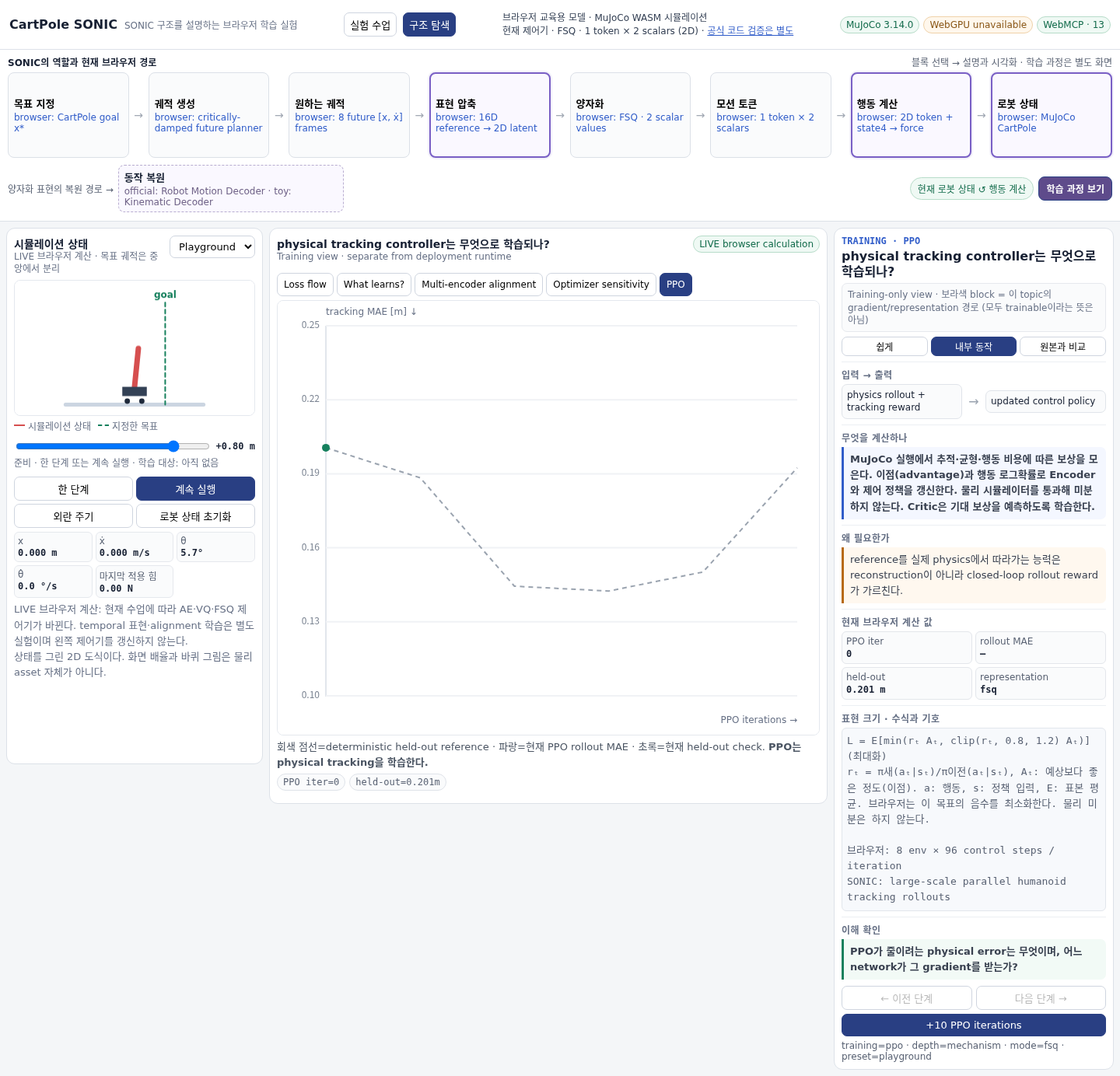
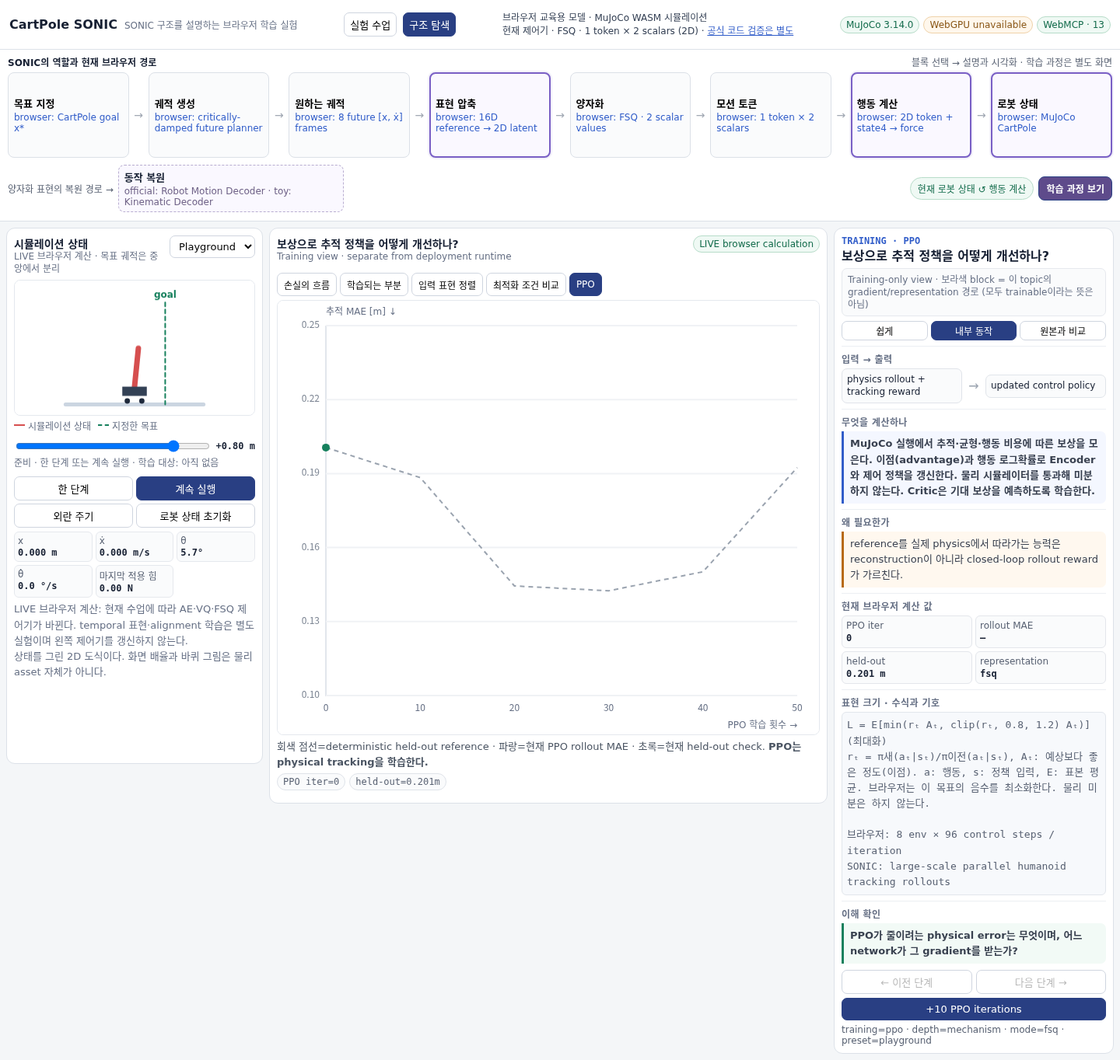
Correct signal-flow wrapping and clarify visual mathematical explanations

diff --git a/course.js b/course.js
@@ -153,7 +153,7 @@ export const SONIC_FLOW = [
 export const TRAINING_TOPICS = [
   {
     id:"loss-flow",
-    label:"Loss flow",
+    label:"손실의 흐름",
     title:"SONIC은 어떤 loss로 전체 구조를 학습하나?",
     viz:"training-flow",
     input:"rollouts + reference targets",
@@ -164,7 +164,7 @@ export const TRAINING_TOPICS = [
   },
   {
     id:"what-learns",
-    label:"What learns?",
+    label:"학습되는 부분",
     title:"FSQ도 학습될까? 어떤 parameter가 실제로 바뀌나?",
     viz:"learning-graph",
     input:"loss gradients",
@@ -175,7 +175,7 @@ export const TRAINING_TOPICS = [
   },
   {
     id:"alignment",
-    label:"Multi-encoder alignment",
+    label:"입력 표현 정렬",
     title:"왜 서로 다른 Encoder가 같은 Universal Token 의미를 만들까?",
     viz:"alignment",
     input:"paired representations of the same motion",
@@ -186,7 +186,7 @@ export const TRAINING_TOPICS = [
   },
   {
     id:"optimizer-sensitivity",
-    label:"Optimizer sensitivity",
+    label:"최적화 조건 비교",
     title:"왜 2-token controller는 같은 PPO 설정에서 더 흔들렸을까?",
     viz:"optimizer-evidence",
     input:"matched bootstrap controllers + controlled PPO ablations",
@@ -198,7 +198,7 @@ export const TRAINING_TOPICS = [
   {
     id:"ppo",
     label:"PPO",
-    title:"physical tracking controller는 무엇으로 학습되나?",
+    title:"보상으로 추적 정책을 어떻게 개선하나?",
     viz:"training",
     input:"physics rollout + tracking reward",
     output:"updated control policy",
@@ -343,109 +343,110 @@ export const TRAINING_DETAILS = {
 };
 
 export const CONCEPT_TEXT = {
-  ae:{
-    formula:"MSE = (1/N) Σⱼ (rⱼ − r̂ⱼ)²\nN: 성분 수, r: 정규화된 목표, r̂: 복원값. 위치·속도를 각각 정규화한 평균이므로 무차원이며 mm가 아니다.",
-    title:"Autoencoder — 압축 후 무엇이 남았는가?",
-    input:"원하는 미래 궤적 (reference)",
-    output:"latent z + reconstructed reference",
-    short:"Encoder는 원하는 미래 궤적(reference)을 작은 연속 표현 z로 압축하고, Decoder는 입력을 복원한다.",
-    why:"작은 latent가 motion 정보를 잃지 않았는지 reconstruction error로 확인한다.",
-    mechanism:"입력 → Encoder → 연속 표현 z → Decoder → 복원값의 순서다. 아래 정규화 MSE로 Encoder와 Decoder를 함께 학습한다.",
-    sonic:"SONIC에서는 이 생각이 motion Encoder + Robot Motion/Kinematic Decoder auxiliary path로 이어진다. physical action은 별도 Control Decoder가 낸다.",
-    ifMissing:"latent가 motion semantic을 보존하는지 직접 검사할 보조 신호가 약해진다.",
-    question:"왜 작은 latent를 다시 복원해 보는 것이 bottleneck의 품질 검사가 되는가?",
-    toyShape:"16D reference → 2D z → 16D reconstruction",
-    sonicShape:"motion Encoder → shared latent/token → Robot Motion Decoder auxiliary reconstruction",
-    key:"AE는 SONIC deployment 구조 그 자체가 아니라 Encoder/auxiliary Decoder를 이해하기 위한 기본 개념이다."
+  "ae": {
+    "formula": "MSE = (1/N) Σⱼ (rⱼ − r̂ⱼ)²\nN: 성분 수, r: 정규화된 목표, r̂: 복원값. 위치·속도를 각각 정규화한 평균이므로 무차원이며 mm가 아니다.",
+    "title": "Autoencoder — 압축 후 무엇이 남았는가?",
+    "input": "원하는 미래 궤적 (reference)",
+    "output": "연속 표현 z와 복원한 궤적",
+    "short": "Encoder는 원하는 미래 궤적(reference)을 작은 연속 표현 z로 압축하고, Decoder는 입력을 복원한다.",
+    "why": "작은 표현으로 줄인 뒤에도 원래 궤적 정보를 얼마나 되찾는지 확인한다.",
+    "mechanism": "입력 → Encoder → 연속 표현 z → Decoder → 복원값의 순서다. 아래 정규화 MSE로 Encoder와 Decoder를 함께 학습한다.",
+    "sonic": "SONIC에서는 이 생각이 motion Encoder + Robot Motion/Kinematic Decoder auxiliary path로 이어진다. physical action은 별도 Control Decoder가 낸다.",
+    "ifMissing": "latent가 motion semantic을 보존하는지 직접 검사할 보조 신호가 약해진다.",
+    "question": "왜 작은 latent를 다시 복원해 보는 것이 bottleneck의 품질 검사가 되는가?",
+    "toyShape": "16D reference → 2D z → 16D reconstruction",
+    "sonicShape": "motion Encoder → shared latent/token → Robot Motion Decoder auxiliary reconstruction",
+    "key": "AE는 SONIC deployment 구조 그 자체가 아니라 Encoder/auxiliary Decoder를 이해하기 위한 기본 개념이다."
   },
-  vae:{
-    title:"VAE — optional background",
-    input:"input/reference features",
-    output:"평균 μ, 표준편차 σ → 확률적으로 뽑은 연속 표현 z",
-    short:"z 하나를 직접 내는 대신 μ,σ를 내고 확률분포에서 latent를 sample한다.",
-    why:"continuous latent를 regularized probabilistic space로 만드는 계열이다.",
-    mechanism:"Encoder가 μ,σ를 출력하고 z=μ+σ·ε로 sample한다. reconstruction loss와 KL divergence를 함께 최적화한다.",
-    sonic:"SONIC runtime은 VAE를 핵심 block으로 사용하지 않는다. VAE는 VQ-VAE라는 이름의 계보를 이해하기 위한 선택 배경지식이다.",
-    ifMissing:"SONIC 이해에는 치명적이지 않다. 이 탭을 건너뛰어도 VQ→VQ-VAE→FSQ 본선을 이해할 수 있다.",
-    question:"VAE의 μ/σ/KL은 왜 FSQ 이해의 필수 선행조건이 아닌가?",
-    toyShape:"concept-only: μ,σ → sampled z (not implemented in toy runtime)",
-    sonicShape:"optional background; not a SONIC runtime block",
-    key:"FSQ의 직접 선행 개념은 VAE보다 VQ/VQ-VAE다. VAE는 선택 배경지식이다."
+  "vae": {
+    "title": "VAE — 확률적 표현을 만드는 선택 배경",
+    "input": "input/reference features",
+    "output": "평균 μ, 표준편차 σ → 확률적으로 뽑은 연속 표현 z",
+    "short": "Encoder가 평균과 표준편차를 내고, 그 분포에서 연속 표현 z를 뽑는다.",
+    "why": "continuous latent를 regularized probabilistic space로 만드는 계열이다.",
+    "mechanism": "Encoder가 μ,σ를 출력하고 z=μ+σ·ε로 sample한다. reconstruction loss와 KL divergence를 함께 최적화한다.",
+    "sonic": "SONIC runtime은 VAE를 핵심 block으로 사용하지 않는다. VAE는 VQ-VAE라는 이름의 계보를 이해하기 위한 선택 배경지식이다.",
+    "ifMissing": "SONIC 이해에는 치명적이지 않다. 이 탭을 건너뛰어도 VQ→VQ-VAE→FSQ 본선을 이해할 수 있다.",
+    "question": "VAE의 μ/σ/KL은 왜 FSQ 이해의 필수 선행조건이 아닌가?",
+    "toyShape": "concept-only: μ,σ → sampled z (not implemented in toy runtime)",
+    "sonicShape": "optional background; not a SONIC runtime block",
+    "key": "FSQ의 직접 선행 개념은 VAE보다 VQ/VQ-VAE다. VAE는 선택 배경지식이다.",
+    "formula": "z = μ + σ ⊙ ε, ε ~ N(0,I)\nμ: 평균, σ: 표준편차, ε: 표준정규 표본, ⊙: 성분별 곱. 복원 오차와 분포 차이(KL)를 함께 다룬다. 이 탭은 설명이며 VAE 학습을 실행하지 않는다."
   },
-  vq:{
-    formula:"k* = argminₖ ‖z − eₖ‖²; q = e[k*]\nz: 연속 표현, eₖ: k번째 학습 코드, q: 선택된 벡터. 가장 가까운 코드의 제곱거리를 최소화한다.",
-    title:"VQ — 가장 가까운 학습 벡터 선택",
-    input:"압축된 연속 표현 z (latent)",
-    output:"nearest learned code vector q",
-    short:"압축된 연속 표현 z를 학습되는 코드 목록에서 가장 가까운 벡터 q로 바꾼다.",
-    why:"continuous representation을 discrete code로 바꾼다.",
-    mechanism:"아래 수식처럼 z와 각 코드 벡터의 제곱거리를 비교한다. 가장 가까운 코드를 고르는 연산은 불연속이므로 Encoder 기울기와 코드 갱신을 따로 처리한다.",
-    sonic:"SONIC은 learned VQ codebook 대신 FSQ를 사용한다. VQ는 FSQ가 무엇을 단순화했는지 이해하기 위한 직접 비교 기준이다.",
-    ifMissing:"FSQ의 장점인 'learned codebook 제거'가 왜 중요한지 이해하기 어렵다.",
-    question:"VQ에서 z가 codebook의 어느 vector로 가는지는 어떻게 결정되고, 그 vector 자체는 학습되는가?",
-    toyShape:"z∈R² → nearest of 8 learned 2D code vectors",
-    sonicShape:"comparison baseline; SONIC runtime uses FSQ instead of a learned VQ codebook",
-    key:"브라우저는 선택된 코드 벡터를 해당 z의 평균 쪽으로 이동시킨다. FSQ의 고정 수준과 다르다."
+  "vq": {
+    "formula": "k* = argminₖ ‖z − eₖ‖²; q = e[k*]\nz: 연속 표현, eₖ: k번째 학습 코드, q: 선택된 벡터. 가장 가까운 코드의 제곱거리를 최소화한다.",
+    "title": "VQ — 가장 가까운 학습 벡터 선택",
+    "input": "압축된 연속 표현 z (latent)",
+    "output": "가장 가까운 학습 벡터 q",
+    "short": "압축된 연속 표현 z를 학습되는 코드 목록에서 가장 가까운 벡터 q로 바꾼다.",
+    "why": "연속 표현을 유한한 대표 벡터 중 하나로 바꾼다.",
+    "mechanism": "아래 수식처럼 z와 각 코드 벡터의 제곱거리를 비교한다. 가장 가까운 코드를 고르는 연산은 불연속이므로 Encoder 기울기와 코드 갱신을 따로 처리한다.",
+    "sonic": "SONIC은 learned VQ codebook 대신 FSQ를 사용한다. VQ는 FSQ가 무엇을 단순화했는지 이해하기 위한 직접 비교 기준이다.",
+    "ifMissing": "FSQ의 장점인 'learned codebook 제거'가 왜 중요한지 이해하기 어렵다.",
+    "question": "VQ에서 z가 codebook의 어느 vector로 가는지는 어떻게 결정되고, 그 vector 자체는 학습되는가?",
+    "toyShape": "z∈R² → nearest of 8 learned 2D code vectors",
+    "sonicShape": "comparison baseline; SONIC runtime uses FSQ instead of a learned VQ codebook",
+    "key": "브라우저는 선택된 코드 벡터를 해당 z의 평균 쪽으로 이동시킨다. FSQ의 고정 수준과 다르다."
   },
-  vqvae:{
-    formula:"k* = argminₖ ‖z − eₖ‖²; q = e[k*]\nz: 연속 표현, eₖ: 학습 코드. 원 논문: 복원 + 코드북 + commitment 손실. 브라우저: STE + z 근접 항 + 코드 평균 갱신. FSQ에는 학습 코드북이 없다.",
-    title:"VQ-VAE — 양자화와 복원을 함께 학습",
-    input:"reference → continuous z",
-    output:"discrete q + reconstruction",
-    short:"Encoder → nearest code q → Decoder reconstruction을 함께 학습한다.",
-    why:"nearest lookup은 미분 불가능하고 z와 learned codebook을 함께 맞춰야 하므로 STE·commitment·codebook update가 각각 필요하다.",
-    mechanism:"순방향은 z → 가장 가까운 코드 q → 복원이다. 역방향은 STE(불연속 선택을 대신하는 기울기)로 Encoder를 갱신한다. 브라우저 VQ는 z를 q에 가까이 두는 항과 선택된 코드의 이동 평균 갱신을 사용한다. 원 논문의 코드북·commitment 손실을 그대로 실행하는 것은 아니다.",
-    sonic:"SONIC FSQ는 이 구조에서 learned vector codebook/commitment/dead-code 관리 부담을 줄인 대안으로 이해하면 된다.",
-    ifMissing:"FSQ가 단순히 'VQ보다 다른 rounding' 정도로만 보여 왜 연구적으로 의미가 있는지 놓치게 된다.",
-    question:"VQ-VAE에서 STE, commitment, codebook update는 각각 어떤 학습 문제를 해결하는가?",
-    toyShape:"16D → z2 → nearest learned q2 → recon16",
-    sonicShape:"VQ-VAE predecessor concept → SONIC FSQ removes learned codebook machinery",
-    key:"forward에서는 q를 쓰고 backward에서는 STE로 Encoder까지 gradient를 보낸다. 이것이 '그냥 diagram'이 아니라 학습 메커니즘의 핵심이다."
+  "vqvae": {
+    "formula": "k* = argminₖ ‖z − eₖ‖²; q = e[k*]\nz: 연속 표현, eₖ: 학습 코드. 원 논문: 복원 + 코드북 + commitment 손실. 브라우저: STE + z 근접 항 + 코드 평균 갱신. FSQ에는 학습 코드북이 없다.",
+    "title": "VQ-VAE — 양자화와 복원을 함께 학습",
+    "input": "원하는 궤적 → 연속 표현 z",
+    "output": "선택한 코드 q → 복원한 궤적",
+    "short": "입력을 압축하고, 가까운 코드를 선택하고, 그 코드로 입력을 복원한다.",
+    "why": "코드 선택이 불연속이어도 앞단을 학습하고, 연속 표현과 대표 벡터가 서로 멀어지지 않도록 해야 한다.",
+    "mechanism": "순방향은 z → 가장 가까운 코드 q → 복원이다. 역방향은 STE(불연속 선택을 대신하는 기울기)로 Encoder를 갱신한다. 브라우저 VQ는 z를 q에 가까이 두는 항과 선택된 코드의 이동 평균 갱신을 사용한다. 원 논문의 코드북·commitment 손실을 그대로 실행하는 것은 아니다.",
+    "sonic": "SONIC FSQ는 이 구조에서 learned vector codebook/commitment/dead-code 관리 부담을 줄인 대안으로 이해하면 된다.",
+    "ifMissing": "FSQ가 단순히 'VQ보다 다른 rounding' 정도로만 보여 왜 연구적으로 의미가 있는지 놓치게 된다.",
+    "question": "대체 기울기, z와 코드의 거리, 대표 벡터 갱신은 각각 무엇을 해결하는가?",
+    "toyShape": "16D → z2 → nearest learned q2 → recon16",
+    "sonicShape": "VQ-VAE predecessor concept → SONIC FSQ removes learned codebook machinery",
+    "key": "forward에서는 q를 쓰고 backward에서는 STE로 Encoder까지 gradient를 보낸다. 이것이 '그냥 diagram'이 아니라 학습 메커니즘의 핵심이다."
   },
-  fsq:{
-    formula:"브라우저 근사: qᵢ = round(1.998 × tanh(zᵢ))/2\nzᵢ: 연속 표현의 i번째 성분, qᵢ: 양자화 값. 수준은 {−1, −0.5, 0, 0.5, 1}. 이 화면은 정규화된 q를 표시한다. 공식 32수준 설정과 다르며, FSQ만으로 의미 정렬이 생기지는 않는다.",
-    title:"FSQ — 각 성분을 고정된 단계로 양자화",
-    input:"continuous latent scalars z",
-    output:"fixed-level quantized scalars q",
-    short:"압축된 연속 표현(latent)의 각 성분을 제한하고 반올림해 양자화된 표현(token)을 만든다.",
-    why:"learned vector codebook 관리 없이 discrete bottleneck을 만든다.",
-    mechanism:"toy는 q_i = round(1.998·tanh(z_i))/2를 사용한다. round는 forward에서 discrete value를 만들고 backward에서는 STE로 gradient를 Encoder에 전달한다.",
-    sonic:"release 계열 config는 2 temporal tokens × 32 scalar dims, scalar당 32 fixed levels를 사용해 flattened 64-D token interface를 만든다.",
-    ifMissing:"continuous latent를 그대로 쓰게 되어 finite shared bottleneck의 규격성과 discrete token interface를 잃는다.",
-    question:"FSQ level은 고정인데 Encoder representation은 어떻게 계속 좋아질 수 있는가?",
-    toyShape:"z∈R² → q on 5×5 implicit fixed grid",
-    sonicShape:"2 tokens × 32 scalar dims, 32 fixed levels/scalar → 64 flattened values",
-    key:"FSQ levels는 보통 학습되지 않는다. Encoder가 fixed bins를 유용하게 사용하는 법을 배운다."
+  "fsq": {
+    "formula": "브라우저 근사: qᵢ = round(1.998 × tanh(zᵢ))/2\nzᵢ: 연속 표현의 i번째 성분, qᵢ: 양자화 값. 수준은 {−1, −0.5, 0, 0.5, 1}. 이 화면은 정규화된 q를 표시한다. 공식 32수준 설정과 다르며, FSQ만으로 의미 정렬이 생기지는 않는다.",
+    "title": "FSQ — 각 성분을 고정된 단계로 양자화",
+    "input": "연속 표현 z의 각 숫자",
+    "output": "고정 단계로 반올림한 q",
+    "short": "압축된 연속 표현(latent)의 각 성분을 제한하고 반올림해 양자화된 표현(token)을 만든다.",
+    "why": "학습되는 대표 벡터 목록 없이, 각 숫자가 사용할 단계를 미리 정한다.",
+    "mechanism": "각 z 성분을 tanh로 제한한 뒤 아래 식으로 반올림한다. 순방향은 정해진 단계의 값을 내고, 역방향은 대체 기울기(STE)를 앞단 Encoder로 전달한다. 반올림 자체를 매끈한 함수라고 가정하는 것은 아니다.",
+    "sonic": "release 계열 config는 2 temporal tokens × 32 scalar dims, scalar당 32 fixed levels를 사용해 flattened 64-D token interface를 만든다.",
+    "ifMissing": "continuous latent를 그대로 쓰게 되어 finite shared bottleneck의 규격성과 discrete token interface를 잃는다.",
+    "question": "단계 값은 고정인데 Encoder는 무엇을 바꾸며 학습하는가?",
+    "toyShape": "z∈R² → q on 5×5 implicit fixed grid",
+    "sonicShape": "2 tokens × 32 scalar dims, 32 fixed levels/scalar → 64 flattened values",
+    "key": "격자의 단계 값은 고정된다. Encoder와 Decoder가 그 단계를 유용하게 쓰는 방법을 학습한다."
+  },
+  "temporal": {
+    "title": "1 token vs 2 token slots — 왜 future window를 여러 token으로 표현할까?",
+    "input": "same whole future window",
+    "output": "1-slot vs 2-slot FSQ representations + reconstructions",
+    "short": "전체 future window를 한꺼번에 읽되, 출력 representation을 token slot 하나가 아니라 여러 slot으로 나누어 더 많은 discrete capacity를 쓴다.",
+    "why": "하나의 작은 token이 표현할 수 있는 finite combinations는 제한적이다. 여러 token slot을 쓰면 whole-window 정보를 더 풍부하게 보존할 수 있다.",
+    "mechanism": "toy는 같은 16D future window를 두 모델에 넣는다. 1-token model은 2 scalar FSQ, 2-token model은 2×2 scalar FSQ를 출력한다. 둘 다 whole window를 공동으로 읽으며 reconstruction loss로 학습된다. token 1=근미래, token 2=원미래 같은 역할은 미리 지정하지 않는다.",
+    "sonic": "공식 SONIC MLP Encoder는 temporal input을 flatten해 읽고, 출력은 max_num_tokens=2 temporal slots로 reshape한다. release config는 token_dim=32이므로 2×32=64 flattened values다. slot 의미는 architecture/config이 정하는 shape이지 near/far semantic을 하드코딩한 것이 아니다.",
+    "ifMissing": "token slot 수와 token dimension을 같은 것으로 오해하거나, token 1/2에 임의의 시간 의미를 붙이게 된다.",
+    "question": "왜 token을 두 개 쓰는가? 그리고 token 1과 token 2가 각각 near/far를 담당한다고 말해도 되는가?",
+    "toyShape": "same 16D window → 1×2 FSQ vs 2×2 FSQ",
+    "sonicShape": "whole future window → 2 token slots × 32 scalar dims → 64 flattened values",
+    "key": "여러 표현 칸은 용량을 늘린다. 각 칸이 근미래·원미래를 뜻하도록 미리 지정되지는 않는다."
+  },
+  "temporal-control": {
+    "title": "1 token vs 2 token control — 표현력 증가가 실제 제어도 좋아지게 할까?",
+    "input": "same future reference + same actual proprioception",
+    "output": "1-token vs 2-token Dynamic Decoder actions → 브라우저 MuJoCo WASM",
+    "short": "두 controller를 같은 teacher/bootstrap과 같은 PPO budget으로 학습해 실제 tracking과 disturbance recovery를 비교한다.",
+    "why": "reconstruction이 좋아졌다는 사실만으로 physical control이 좋아졌다고 결론낼 수 없기 때문이다.",
+    "mechanism": "1-token controller는 16D reference→2D→FSQ q2, 2-token controller는 16D→4D→reshape 2×2→FSQ q4를 사용한다. 각 q는 같은 4D proprioception과 결합되어 별도 Dynamic Decoder가 force를 낸다. 두 controller는 동일 300-step teacher imitation과 동일 PPO hyperparameter/budget을 받는다.",
+    "sonic": "실제 SONIC Robot Control Decoder는 flattened multi-token representation과 proprioception을 받아 action을 낸다. 이 toy는 token-slot 수가 representation capacity뿐 아니라 policy optimization 난이도에도 영향을 줄 수 있음을 분리해 보여준다.",
+    "ifMissing": "'2-token reconstruction이 더 좋다 → 2-token controller도 반드시 더 좋다'는 잘못된 결론을 내리게 된다.",
+    "question": "2-token reconstruction 이득이 같은 PPO 조건에서 closed-loop tracking 이득으로 그대로 이어지는가?",
+    "toyShape": "1-token: q2+state4→force1 ; 2-token: q4+state4→force1",
+    "sonicShape": "flattened multi-token vector + robot proprioception → whole-body action",
+    "key": "matched-budget ablation, not a claim that one or two tokens is globally optimal."
   }
-,
-  temporal:{
-    title:"1 token vs 2 token slots — 왜 future window를 여러 token으로 표현할까?",
-    input:"same whole future window",
-    output:"1-slot vs 2-slot FSQ representations + reconstructions",
-    short:"전체 future window를 한꺼번에 읽되, 출력 representation을 token slot 하나가 아니라 여러 slot으로 나누어 더 많은 discrete capacity를 쓴다.",
-    why:"하나의 작은 token이 표현할 수 있는 finite combinations는 제한적이다. 여러 token slot을 쓰면 whole-window 정보를 더 풍부하게 보존할 수 있다.",
-    mechanism:"toy는 같은 16D future window를 두 모델에 넣는다. 1-token model은 2 scalar FSQ, 2-token model은 2×2 scalar FSQ를 출력한다. 둘 다 whole window를 공동으로 읽으며 reconstruction loss로 학습된다. token 1=근미래, token 2=원미래 같은 역할은 미리 지정하지 않는다.",
-    sonic:"공식 SONIC MLP Encoder는 temporal input을 flatten해 읽고, 출력은 max_num_tokens=2 temporal slots로 reshape한다. release config는 token_dim=32이므로 2×32=64 flattened values다. slot 의미는 architecture/config이 정하는 shape이지 near/far semantic을 하드코딩한 것이 아니다.",
-    ifMissing:"token slot 수와 token dimension을 같은 것으로 오해하거나, token 1/2에 임의의 시간 의미를 붙이게 된다.",
-    question:"왜 token을 두 개 쓰는가? 그리고 token 1과 token 2가 각각 near/far를 담당한다고 말해도 되는가?",
-    toyShape:"same 16D window → 1×2 FSQ vs 2×2 FSQ",
-    sonicShape:"whole future window → 2 token slots × 32 scalar dims → 64 flattened values",
-    key:"여러 표현 칸은 용량을 늘린다. 각 칸이 근미래·원미래를 뜻하도록 미리 지정되지는 않는다."
-  },
-  "temporal-control":{
-    title:"1 token vs 2 token control — 표현력 증가가 실제 제어도 좋아지게 할까?",
-    input:"same future reference + same actual proprioception",
-    output:"1-token vs 2-token Dynamic Decoder actions → 브라우저 MuJoCo WASM",
-    short:"두 controller를 같은 teacher/bootstrap과 같은 PPO budget으로 학습해 실제 tracking과 disturbance recovery를 비교한다.",
-    why:"reconstruction이 좋아졌다는 사실만으로 physical control이 좋아졌다고 결론낼 수 없기 때문이다.",
-    mechanism:"1-token controller는 16D reference→2D→FSQ q2, 2-token controller는 16D→4D→reshape 2×2→FSQ q4를 사용한다. 각 q는 같은 4D proprioception과 결합되어 별도 Dynamic Decoder가 force를 낸다. 두 controller는 동일 300-step teacher imitation과 동일 PPO hyperparameter/budget을 받는다.",
-    sonic:"실제 SONIC Robot Control Decoder는 flattened multi-token representation과 proprioception을 받아 action을 낸다. 이 toy는 token-slot 수가 representation capacity뿐 아니라 policy optimization 난이도에도 영향을 줄 수 있음을 분리해 보여준다.",
-    ifMissing:"'2-token reconstruction이 더 좋다 → 2-token controller도 반드시 더 좋다'는 잘못된 결론을 내리게 된다.",
-    question:"2-token reconstruction 이득이 같은 PPO 조건에서 closed-loop tracking 이득으로 그대로 이어지는가?",
-    toyShape:"1-token: q2+state4→force1 ; 2-token: q4+state4→force1",
-    sonicShape:"flattened multi-token vector + robot proprioception → whole-body action",
-    key:"matched-budget ablation, not a claim that one or two tokens is globally optimal."
-  }};
+};
 
 export function getNode(id){
   return SONIC_FLOW.find(x=>x.id===id)||SONIC_FLOW[0];

diff --git a/app.js b/app.js
@@ -643,16 +643,16 @@ function renderLatentViz(mode){
     const zx=X(p.z[0]),zy=Y(p.z[1]),qx=X(p.q[0]),qy=Y(p.q[1]);
     ctx.strokeStyle="#7b8492";ctx.setLineDash([5,4]);ctx.beginPath();ctx.moveTo(zx,zy);ctx.lineTo(qx,qy);ctx.stroke();ctx.setLineDash([]);
     ctx.fillStyle="#315dc9";ctx.beginPath();ctx.arc(zx,zy,8,0,Math.PI*2);ctx.fill();ctx.fillStyle="#d64f4f";ctx.beginPath();ctx.arc(qx,qy,8,0,Math.PI*2);ctx.fill();
-    ctx.fillStyle="#667085";ctx.font="12px system-ui";ctx.fillText("quantize",(zx+qx)/2+5,(zy+qy)/2-5);
+    ctx.fillStyle="#667085";ctx.font="12px system-ui";ctx.fillText("양자화",(zx+qx)/2+5,(zy+qy)/2-5);
   }
   ctx.fillStyle="#667085";ctx.font="12px system-ui";ctx.fillText("z₁",w-48,Y(0)-8);ctx.fillText("z₂",X(0)+7,22);
   const used=new Set(hist.map(x=>x.q.map(v=>v.toFixed(2)).join(",")));if(p)used.add(p.q.map(v=>v.toFixed(2)).join(","));
   const refX=p?p.ref[0]*SONIC_TOY_CONSTANTS.STATE_SCALE[0]:NaN;
   if(mode==="vq"){
-    $("vizCaption").innerHTML='<b>LIVE VQ.</b> 회색 큰 점=learned codebook, 파란 trail=actual episode z history, 빨간 q=nearest learned vector. 짧은 점선은 현재 quantization 이동이다.';
+    $("vizCaption").innerHTML='<b>LIVE VQ.</b> 회색 큰 점은 학습되는 대표 벡터, 파란 선은 연속 표현 z의 이력, 빨간 점은 가장 가까워서 선택된 q이다. 점선은 z와 q의 차이다.';
     setMetrics(["codebook=8 learned vectors","episode codes="+used.size+"/8","ref x(+80ms)="+fmt(refX,3)+"m"]);
   }else{
-    $("vizCaption").innerHTML='<b>LIVE FSQ.</b> 회색 grid=fixed finite levels, 파란 trail=actual episode z history, 빨간 q=현재 FSQ output. FSQ grid는 학습되어 움직이지 않는다.';
+    $("vizCaption").innerHTML='<b>LIVE FSQ.</b> 회색 점은 고정된 가능 값, 파란 점과 선은 연속 표현 z, 빨간 점은 선택된 양자화 값 q이다. 학습해도 회색 격자는 움직이지 않는다.';
     setMetrics(["toy L=[5,5]","episode tokens="+used.size+"/25","q=["+fmt(p?.q[0],2)+","+fmt(p?.q[1],2)+"]"]);
   }
 }
@@ -661,17 +661,17 @@ function renderVqvaeViz(){
   const code=p?.qIndex??"—";
   showHtml(
     '<div style="height:100%;display:grid;grid-template-rows:1fr auto;gap:12px">'+
-      '<div class="flow-row">'+
-        '<div class="flow-box"><strong>Reference</strong><span>16D future motion</span></div><div class="flow-arrow">→</div>'+
-        '<div class="flow-box"><strong>Encoder</strong><span>live z=['+fmt(p?.z[0],2)+', '+fmt(p?.z[1],2)+']</span></div><div class="flow-arrow">→</div>'+
-        '<div class="flow-box accent"><strong>Nearest VQ code</strong><span>index '+code+'<br>q=['+fmt(p?.q[0],2)+', '+fmt(p?.q[1],2)+']</span></div><div class="flow-arrow">→</div>'+
-        '<div class="flow-box purple"><strong>Decoder</strong><span>정규화 MSE (무차원) '+recon+'</span></div>'+
+      '<div class="vq-pipeline">'+
+        '<div class="flow-box"><strong>Reference</strong><span>미래 위치·속도 16개</span></div><div class="flow-arrow">→</div>'+
+        '<div class="flow-box"><strong>Encoder</strong><span>현재 z=['+fmt(p?.z[0],2)+', '+fmt(p?.z[1],2)+']</span></div><div class="flow-arrow">→</div>'+
+        '<div class="flow-box accent"><strong>가까운 코드 선택</strong><span>index '+code+'<br>q=['+fmt(p?.q[0],2)+', '+fmt(p?.q[1],2)+']</span></div><div class="flow-arrow">→</div>'+
+        '<div class="flow-box purple"><strong>복원 Decoder</strong><span>정규화 MSE (무차원) '+recon+'</span></div>'+
       '</div>'+
-      '<table class="compare-table"><thead><tr><th>Training problem</th><th>Why it exists</th><th>Mechanism</th></tr></thead><tbody>'+
-        '<tr><td>nearest lookup is non-differentiable</td><td>Encoder still needs gradient</td><td><b>STE</b>: backward treats quantization approximately like identity</td></tr>'+
-        '<tr><td>Encoder can drift far from selected code</td><td>z should commit to usable codes</td><td><b>commitment loss</b></td></tr>'+
-        '<tr><td>codebook must represent data</td><td>representative vectors need to move</td><td><b>codebook / EMA-style update</b></td></tr>'+
-        '<tr><td>some codes may never be selected</td><td>capacity is wasted</td><td>개념: 미사용 코드 관리 (브라우저의 별도 갱신 경로 아님)</td></tr>'+
+      '<table class="compare-table"><thead><tr><th>학습에서 생기는 문제</th><th>필요한 이유</th><th>해결하는 방식</th></tr></thead><tbody>'+
+        '<tr><td>가장 가까운 코드 선택은 불연속</td><td>앞단 Encoder도 갱신해야 함</td><td><b>STE</b>: 역전파에 대체 기울기를 사용</td></tr>'+
+        '<tr><td>연속 표현 z가 선택 코드에서 멀어짐</td><td>z와 선택한 코드의 차이를 줄임</td><td><b>commitment loss</b></td></tr>'+
+        '<tr><td>코드도 입력 분포를 나타내야 함</td><td>선택된 대표 벡터를 함께 갱신</td><td><b>codebook / EMA-style update</b></td></tr>'+
+        '<tr><td>일부 코드는 선택되지 않을 수 있음</td><td>사용 가능한 표현을 낭비함</td><td>개념: 미사용 코드 관리 (브라우저의 별도 갱신 경로 아님)</td></tr>'+
       '</tbody></table>'+
     '</div>',
     '<b>LIVE values + training explanation.</b> 현재 z/q/reconstruction 값은 실제 toy model에서 오지만, Live 버튼은 선택한 브라우저 제어기로 물리 시뮬레이션과 목표 궤적을 진행하며 weight를 재학습하지 않는다. 표는 VQ-VAE의 학습 개념이다. 브라우저 VQ는 STE·z 근접 항·코드 평균 갱신만 실행하며, 별도의 미사용 코드 관리는 구현하지 않는다. FSQ는 학습 코드북을 사용하지 않는다.',
@@ -1090,7 +1090,8 @@ function renderTrainingViz(){
   for(let i=0;i<=5;i++){const v=minMae+(maxMae-minMae)*i/5,y=Y(v);ctx.strokeStyle="#f0f2f5";ctx.beginPath();ctx.moveTo(pad.l,y);ctx.lineTo(w-pad.r,y);ctx.stroke();ctx.fillStyle="#7b8492";ctx.font="12px ui-monospace";ctx.textAlign="right";ctx.fillText(v.toFixed(2),pad.l-8,y+3);}
   const draw=(pts,color,dash,width)=>{if(!pts.length)return;ctx.strokeStyle=color;ctx.lineWidth=width;ctx.setLineDash(dash);ctx.beginPath();pts.forEach((p,i)=>{const x=X(p.iterations),y=Y(p.mae);i?ctx.lineTo(x,y):ctx.moveTo(x,y);});ctx.stroke();ctx.setLineDash([]);};
   draw(ref,"#9aa3af",[6,5],2);draw(rollout,"#315dc9",[],2.5);held.forEach(p=>{ctx.fillStyle="#16805d";ctx.beginPath();ctx.arc(X(p.iterations),Y(p.mae),5,0,Math.PI*2);ctx.fill();});
-  ctx.fillStyle="#667085";ctx.font="12px system-ui";ctx.textAlign="left";ctx.fillText("tracking MAE [m] ↓",pad.l,18);ctx.textAlign="right";ctx.fillText("PPO iterations →",w-pad.r,h-15);
+  ctx.font="12px ui-monospace";ctx.fillStyle="#667085";ctx.textAlign="center";const ticks=Array.from({length:6},(_,i)=>Math.round(maxIter*i/5));canvasTicks(ctx,ticks.map(String),ticks.map(X),h-pad.b+20);
+  ctx.font="12px system-ui";ctx.textAlign="left";ctx.fillText("추적 MAE [m] ↓",pad.l,18);ctx.textAlign="right";ctx.fillText("PPO 학습 횟수 →",w-pad.r,h-8);
   $("vizCaption").innerHTML='회색 점선=deterministic held-out reference · 파랑=현재 PPO rollout MAE · 초록=현재 held-out check. <b>PPO는 physical tracking을 학습한다.</b>';
   setMetrics(["PPO iter="+currentTrainer.iter,heldoutEval?"held-out="+fmt(heldoutEval.trackingMae,3)+"m":"held-out=—"]);
 }

diff --git a/index.html b/index.html
@@ -105,6 +105,7 @@ button,select,input,.map-node b,.branch-node b{font-size:13px}
 .compare-table,.opt-data,.sensitivity table{font-size:12px;table-layout:fixed;overflow-wrap:anywhere}
 .opt-budget-row{flex-wrap:wrap}.opt-run-chart{height:210px}.optimizer-audit{height:auto;min-height:100%;overflow:visible}
 @media(max-width:1000px){body{min-width:0}.shell{display:flex;flex-direction:column}.card{width:100%}.header{align-items:flex-start}.map-lower{min-width:0;flex-wrap:wrap}.feedback-loop{white-space:normal}}
+.vq-pipeline{display:grid;grid-template-columns:minmax(0,1fr) 18px minmax(0,1fr) 18px minmax(0,1fr) 18px minmax(0,1fr);align-items:center;gap:6px}.vq-pipeline .flow-box{min-width:0;width:100%;padding:9px}.vq-pipeline .flow-arrow{text-align:center}
 </style>
 </head>
 <body>
